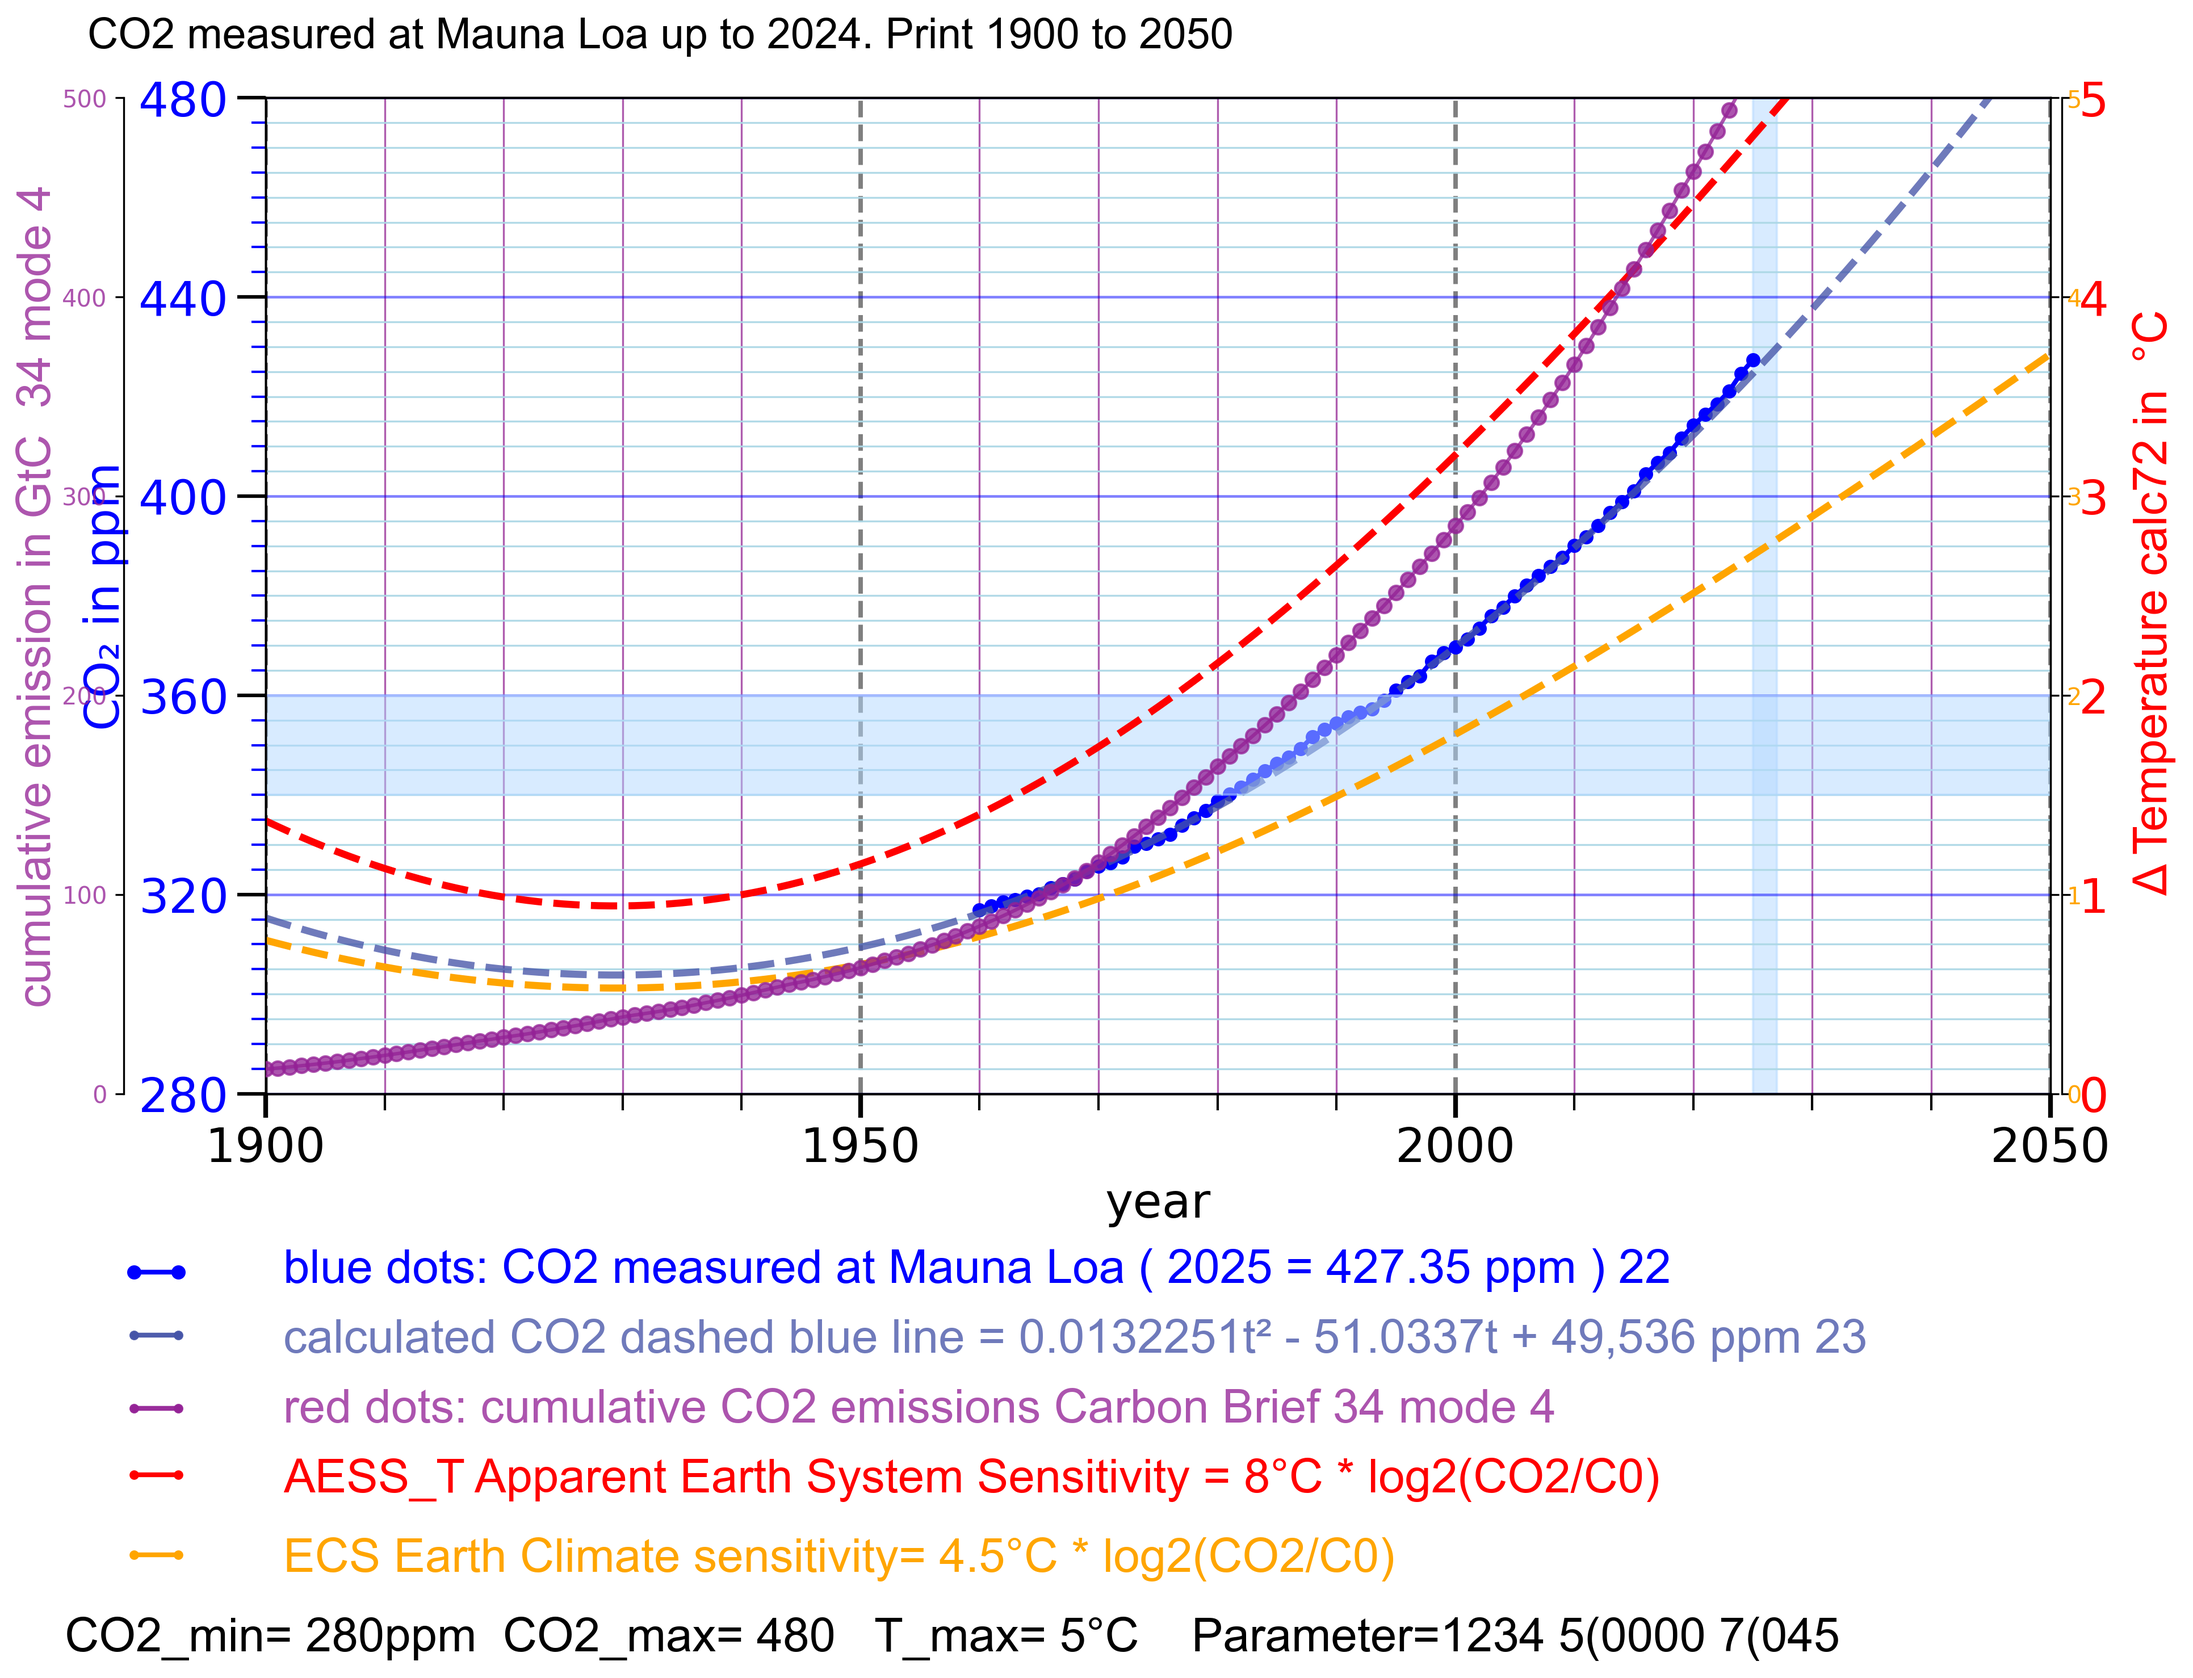
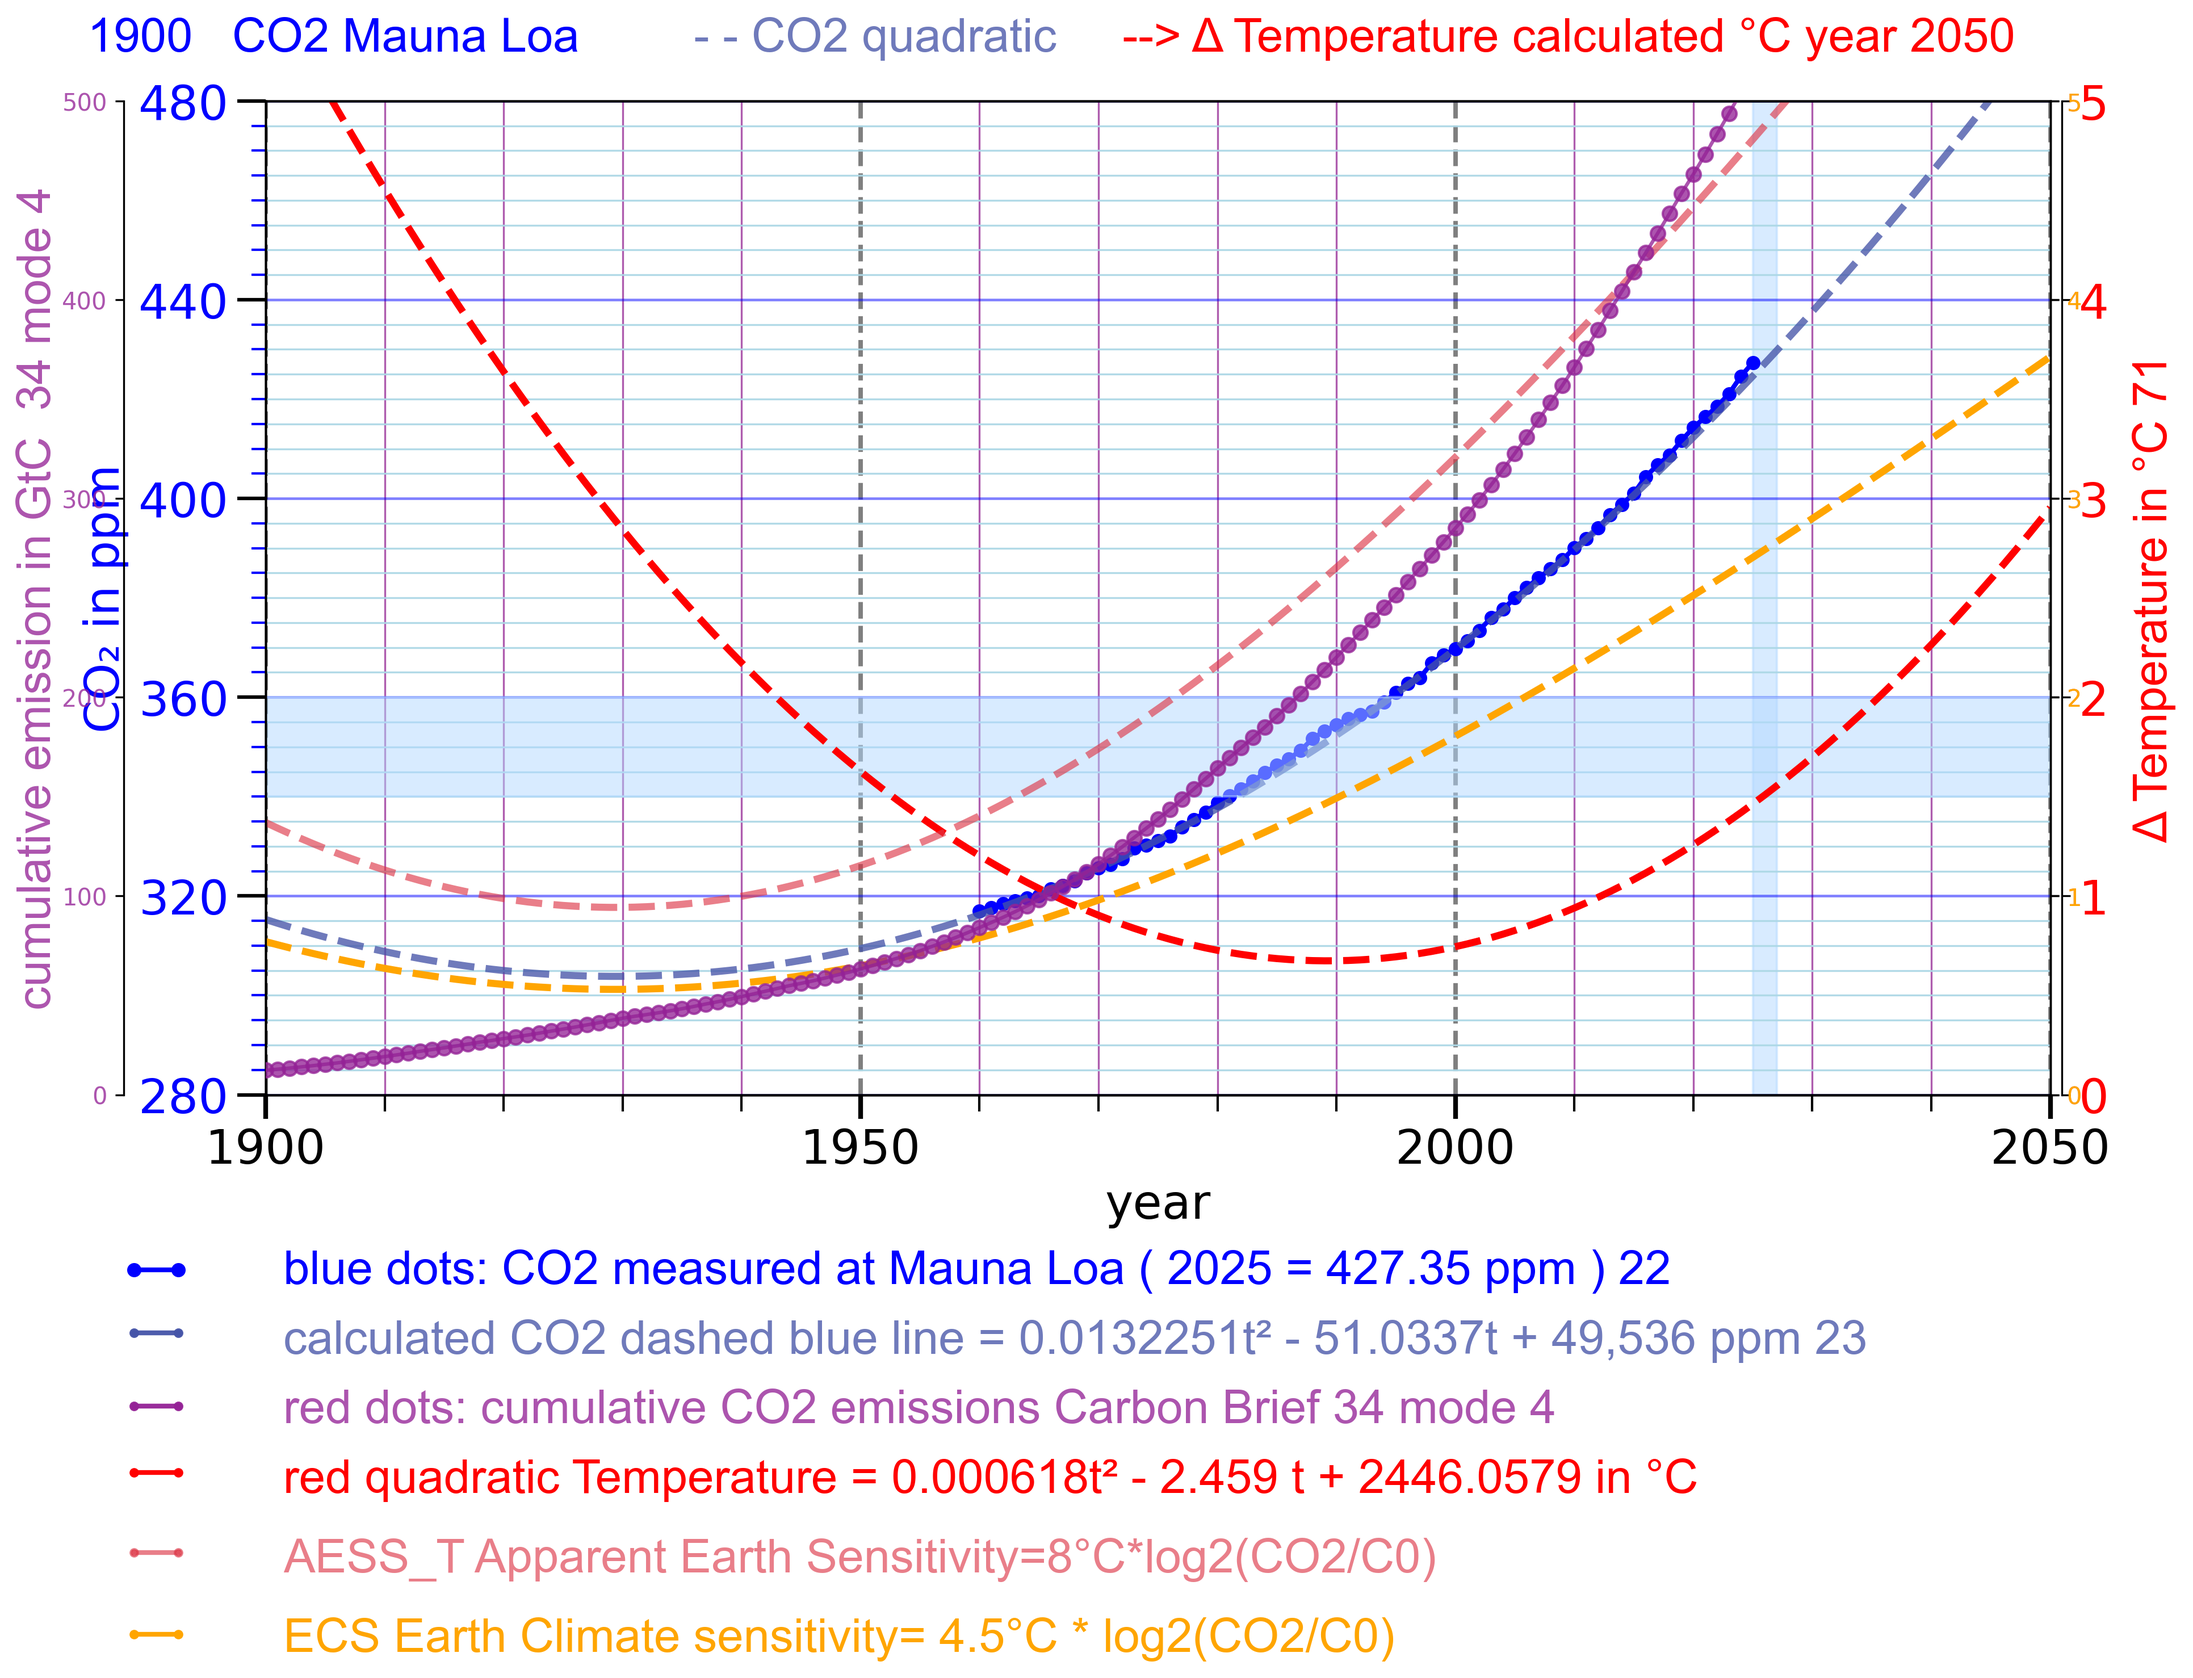
v = "42c2" # 6 curves

diff --git a/42_CO2_T.py b/42_CO2_T.py
@@ -1,5 +1,5 @@
 # 42_CO2_T.py 
-v = "42c1" # 5 curves
+v = "42c2" # 6 curves
 # Thomas Boettcher
 # part 1 configure 
 # part 2.2 plot CO2 Mauna Loa
@@ -46,9 +46,9 @@ plot53_CO2_orange2025 = 0 # 3, 4, 0 orange Glen , 1 = 0.013t² - 51t + 49,536 in
 plot54_Glen_delta_on = 0 #  4, 0 print row 4 # green Glen diff print in line 4
 plot55_population_on = 0 # 4, 5 row 5 # 0=no print , 1 = population in green
 # no part 6
-plot71_temperature = 0 # 4,5, 0 quadratic T
-plot72_AESS_T= 4       # 4,5,0 apparent Earth system sensitivity (AESS=7.7°C)
-plot73_ECS_T= 5       # 6,5 #  Earth Climate sensitivity (ECS=4.5°C)
+plot71_temperature = 4 # 4,5, 0 quadratic T
+plot72_AESS_T= 5      # 4,5,0 apparent Earth system sensitivity (AESS=7.7°C)
+plot73_ECS_T= 6       # 6,5 #  Earth Climate sensitivity (ECS=4.5°C)
 parameter84_save_png = 8 # save png
 
 c71 = "red" # plot71 color c71 = "green" 
